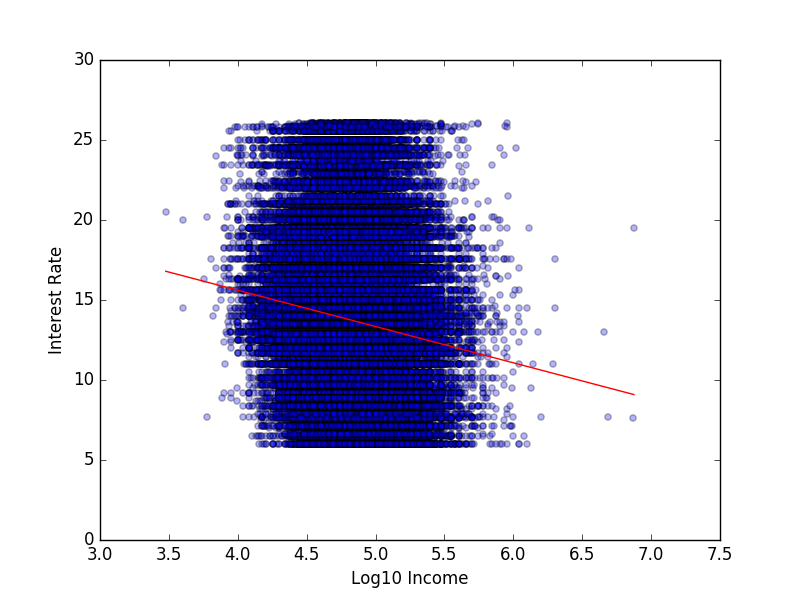
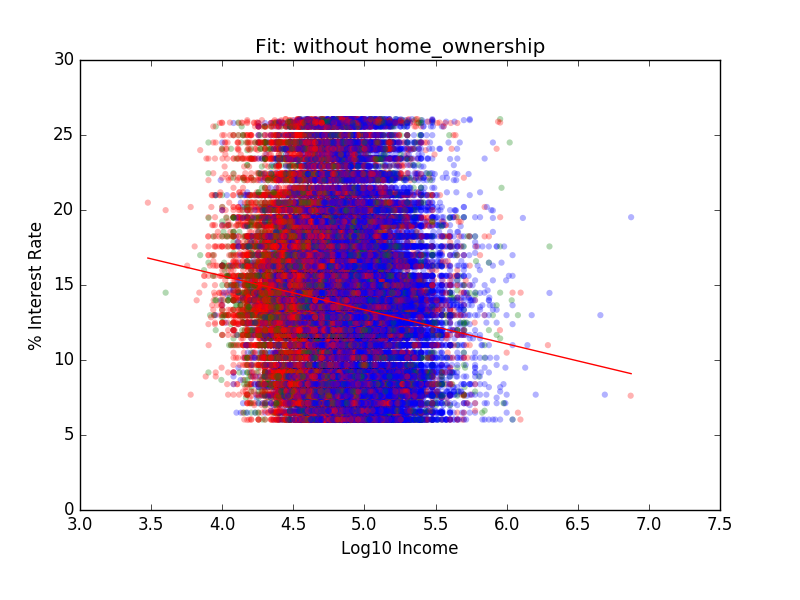
add boxplots, barplot

diff --git a/multivariate.py b/multivariate.py
@@ -4,41 +4,90 @@ import pandas as pd
 import numpy as np
 import statsmodels.formula.api as smf
 import matplotlib.pyplot as plt
+import collections
 import os
 
 plotdir = 'multivar_plots/'
 if not os.access(plotdir, os.F_OK):
     os.mkdir(plotdir)
 
-def convert_own(s):
-    if s == 'OWN':
-        return 'MORTGAGE'
+def convert_own_to_num(s):
+    if s == 'RENT':
+        return 0
+    elif s == 'MORTGAGE':
+        return 2
+    elif s == 'OWN':
+        return 3
+    else:   # 'ANY'
+#       return 1
+        return np.NaN
+
+def convert_own_to_color(s):
+    if s == 'RENT':
+        return 'red'
+    elif s == 'MORTGAGE':
+        return 'blue'
+    elif s == 'OWN':
+        return 'green'
+    else:    # 'ANY'
+#       return 'magenta'
+        return np.NaN
 
 df = pd.read_csv('data/LoanStats3c.csv', header=1, low_memory=False)
 # header=1 first line contains description
 df2 = df.copy()
 df2 = df2[['id','int_rate','home_ownership','annual_inc']]
-# df.dropna(inplace=True)  # all rows have some NA's
+# df.dropna(inplace=True)  # careful, all rows have some NA's
 
-df2.dropna(inplace=True)
+df2.dropna(inplace=True)  # drops 4 rows
 df2['int_rate'] = df2['int_rate'].apply(lambda s: float(s.rstrip('%')))
 # df2['log_income'] = np.log1p(df2.annual_inc)  # np.log1p(x) is ln(1 + x)
 df2['log_income'] = np.log10(df2.annual_inc)
-df2['home_ownership'] = df2['home_ownership'].apply(convert_own)
+df2['home_type'] = df2['home_ownership'].apply(convert_own_to_num)
+df2['home_color'] = df2['home_ownership'].apply(convert_own_to_color)
 print df2[:5]
 print df2[-5:]
 print 'df2 shape', df2.shape
+print 'home_ownership values:', set(df2['home_ownership'].tolist())
 
+freq = collections.Counter(df2['home_ownership'])
+print 'home_ownership frequency:', freq.keys(), freq.values()
+freq = collections.Counter(df2['home_type'])
+# plt.bar() requires int/float, need numeric version of home_ownership
+print 'home_type frequency [RENT, ANY, MORTGAGE, OWN] :', freq.keys(), freq.values()
+plt.clf()
+# df2.groupby('home_ownership').hist()
+plt.bar(freq.keys(), freq.values(), width=1)
+# add labels to bar plot
+# plt.show()
+# plt.xlabel('Log10 Income')
+plt.title('RENT                ANY           MORTGAGE            OWN')
+plt.ylabel('Frequency')
+# plt.title('RENT  ANY  MORTGAGE  OWN')
+plt.savefig(plotdir+'home_barplot.png')
+
+# log_income is normally distributed, annual_inc is not
+df2.boxplot(by='home_ownership', column='annual_inc')
+plt.savefig(plotdir+'home_income_boxplot.png')
+df2.boxplot(by='home_ownership', column='log_income')
+plt.savefig(plotdir+'home_logincome_boxplot.png')
+df2.boxplot(by='home_ownership', column='int_rate')
+plt.savefig(plotdir+'home_intrate_boxplot.png')
+
+df2.dropna(inplace=True)  # drop 1 row w/ ANY, can't do stats on it
+print 'df2 shape', df2.shape
+print 'home_ownership values:', set(df2['home_ownership'].tolist())
 
 est = smf.ols(formula='int_rate ~ log_income', data=df2).fit()
 print 'linear:\n', est.summary()
 print 'linear params:\n', est.params
 
 plt.clf()
-plt.scatter(df2.log_income, df2.int_rate, alpha=0.3)
+# plt.scatter(df2.log_income, df2.int_rate, alpha=0.3)
+plt.scatter(df2.log_income, df2.int_rate, alpha=0.3, c=df2['home_color'], linewidths=0)
 plt.xlabel('Log10 Income')
-plt.ylabel('Interest Rate')
-# plt.title('Fit: No interaction between variables')
+plt.ylabel('% Interest Rate')
+plt.title('Fit: without home_ownership')
 
 income_linspace = np.linspace(df2.log_income.min(), df2.log_income.max(), 100)
 plt.plot(income_linspace, est.params['Intercept'] + est.params['log_income'] * income_linspace, 'r')
@@ -46,18 +95,25 @@ plt.plot(income_linspace, est.params['Intercept'] + est.params['log_income'] * i
 plt.savefig(plotdir+'intrate_v_income.png')
 
 
-est2 = smf.ols(formula='int_rate ~ log_income * home_ownership', data=df2).fit()
+est2 = smf.ols(formula='int_rate ~ log_income * home_type', data=df2).fit()
 print 'interaction:\n', est2.summary()
 print 'interaction params:\n', est2.params
 
-# plt.clf()
-# plt.scatter(df.logincome, df.mdvis, alpha=0.3)
-# plt.xlabel('Log Income')
-# plt.ylabel('Number of Visits')
-# plt.title('Fit: Interaction between variables')
+plt.clf()
+plt.scatter(df2.log_income, df2.int_rate, alpha=0.3, c=df2['home_color'], linewidths=0)
+plt.xlabel('Log10 Income')
+plt.ylabel('% Interest Rate')
+plt.title('Fit: Interaction with home_ownership')
 
-# plt.plot(income_linspace, est.params['Intercept'] + est.params['hlthp'] * 0 + est.params['logincome'] * income_linspace + est.params['logincome:hlthp'] * 0 * income_linspace, 'r')
-# plt.plot(income_linspace, est.params['Intercept'] + est.params['hlthp'] * 1 + est.params['logincome'] * income_linspace + est.params['logincome:hlthp'] * 0 * income_linspace, 'g')
-# # plt.show()
-# plt.savefig(plotdir+'mdvis_income_interact.png')
+# plt.plot(income_linspace, est2.params['Intercept'] + est2.params['home_type'] + est2.params['log_income'] * income_linspace + est2.params['log_income:home_type'] * income_linspace, 'g')
+
+plt.plot(income_linspace, est2.params['Intercept'] + est2.params['home_type'] + est2.params['log_income'] * income_linspace + est2.params['log_income:home_type'] * income_linspace, 'g')
+plt.plot(income_linspace, est2.params['Intercept'] + est2.params['home_type'] + 0 * est2.params['log_income'] * income_linspace + 0 * est2.params['log_income:home_type'] * income_linspace, 'b')
+plt.plot(income_linspace, est2.params['Intercept'] + est2.params['home_type'] + est2.params['log_income'] * income_linspace + 0 * est2.params['log_income:home_type'] * income_linspace, 'r')
+
+# plt.plot(income_linspace, est2.params['Intercept'] + est2.params['log_income'] * income_linspace + est2.params['log_income:home_type'] * est2.params['home_type'] * income_linspace, 'r')
+# almost no different between plotted lines?
+
+# plt.show()
+plt.savefig(plotdir+'intrate_v_income_hometype.png')
 
